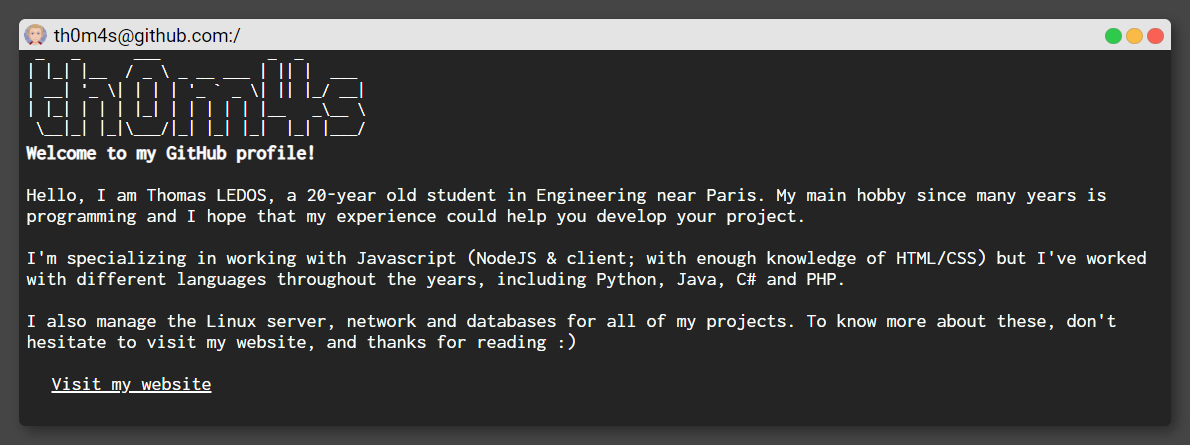
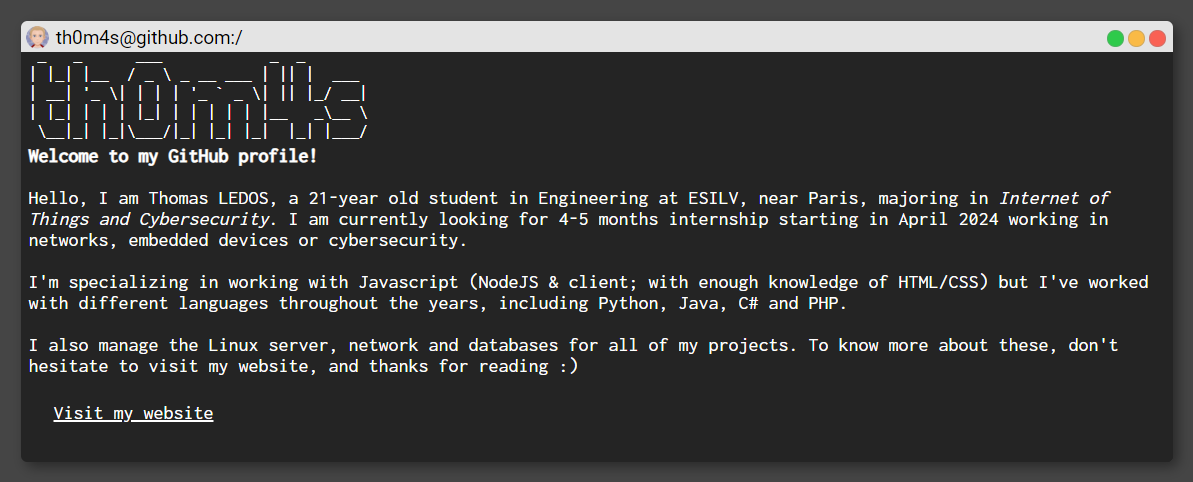
Updated Github readme image

diff --git a/github_readme.html b/github_readme.html
@@ -41,7 +41,7 @@
  \__|_| |_|\___/|_| |_| |_|  |_| |___/</pre>
                     <b>Welcome to my GitHub profile!</b><br/>
         
-                    <br/>Hello, I am Thomas LEDOS, a 21-year old student in Engineering at ESILV, near Paris, majoring in <i>Internet of Things and Cybersecurity</i>. I am currently looking for 4-5 months internship starting in April 2024 working in networks, embedded devices or cybersecurity..<br/>
+                    <br/>Hello, I am Thomas LEDOS, a 21-year old student in Engineering at ESILV, near Paris, majoring in <i>Internet of Things and Cybersecurity</i>. I am currently looking for 4-5 months internship starting in April 2024 working in networks, embedded devices or cybersecurity.<br/>
                     <br/>I'm specializing in working with Javascript (NodeJS & client; with enough knowledge of HTML/CSS) but I've worked with different languages throughout the years, including Python, Java, C# and PHP.<br/>
                     <br/>I also manage the Linux server, network and databases for all of my projects. To know more about these, don't hesitate to visit my website, and thanks for reading :)<br/>
                     <br/><a class="message-link" href="#">Visit my website</a>
